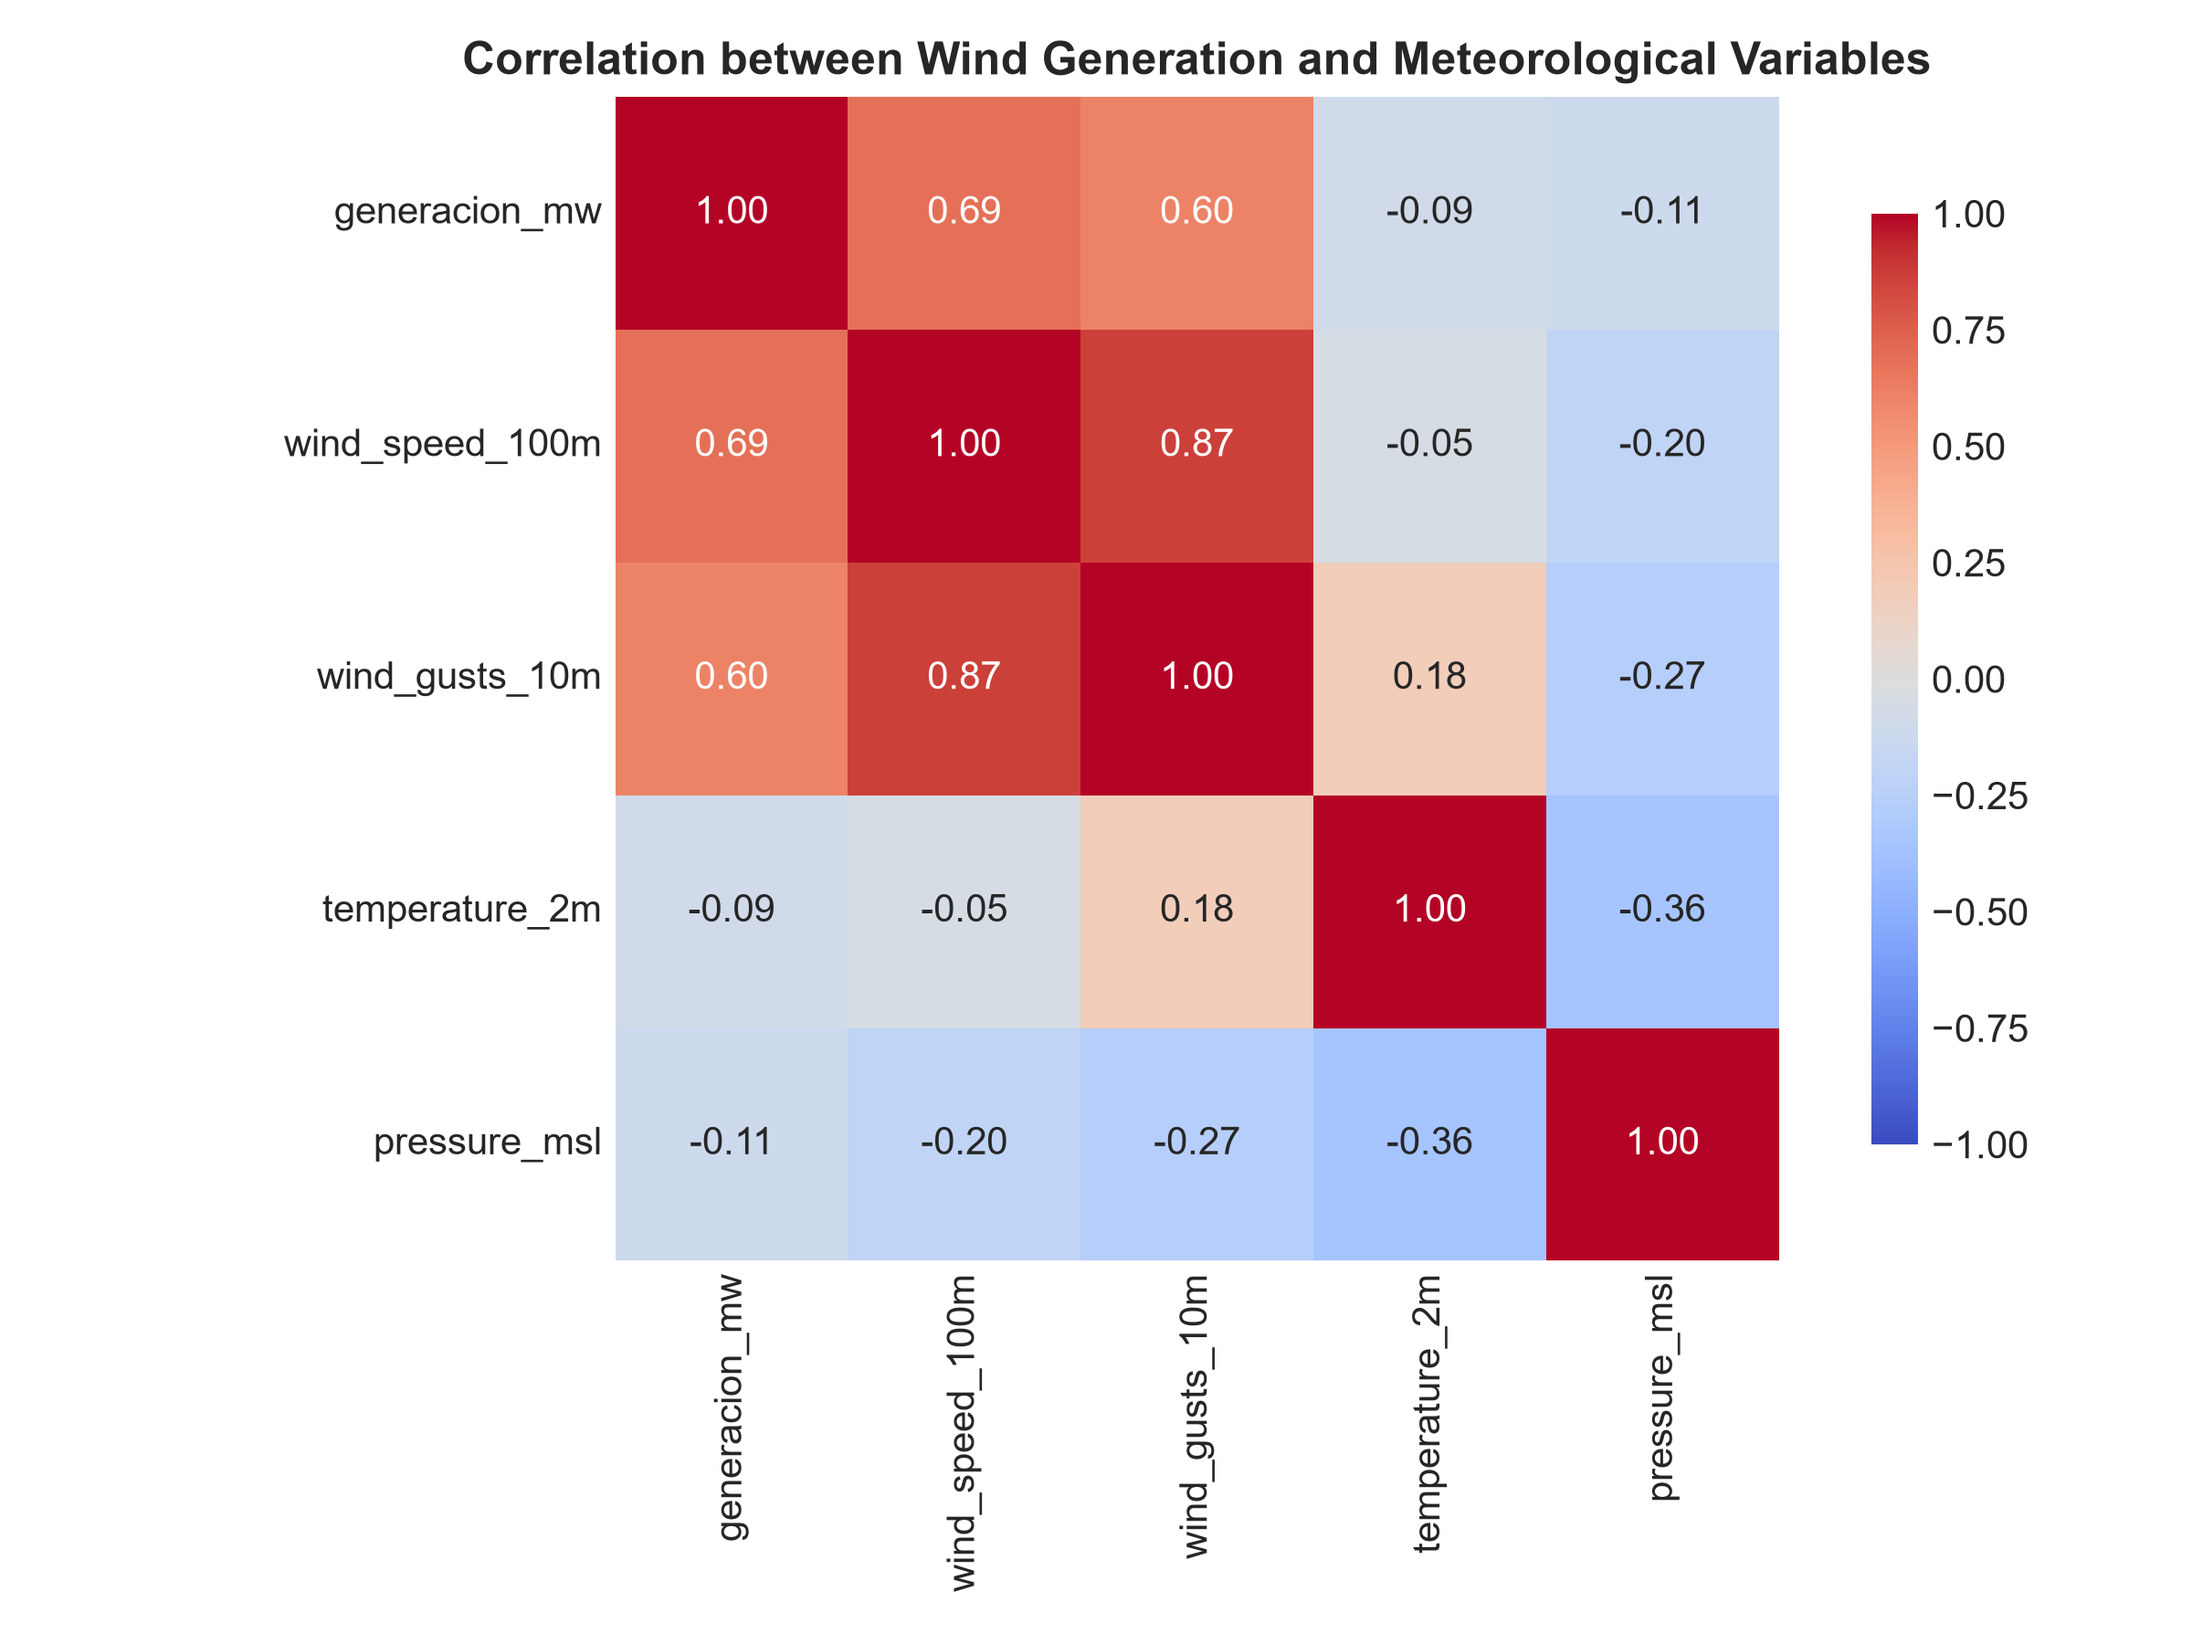
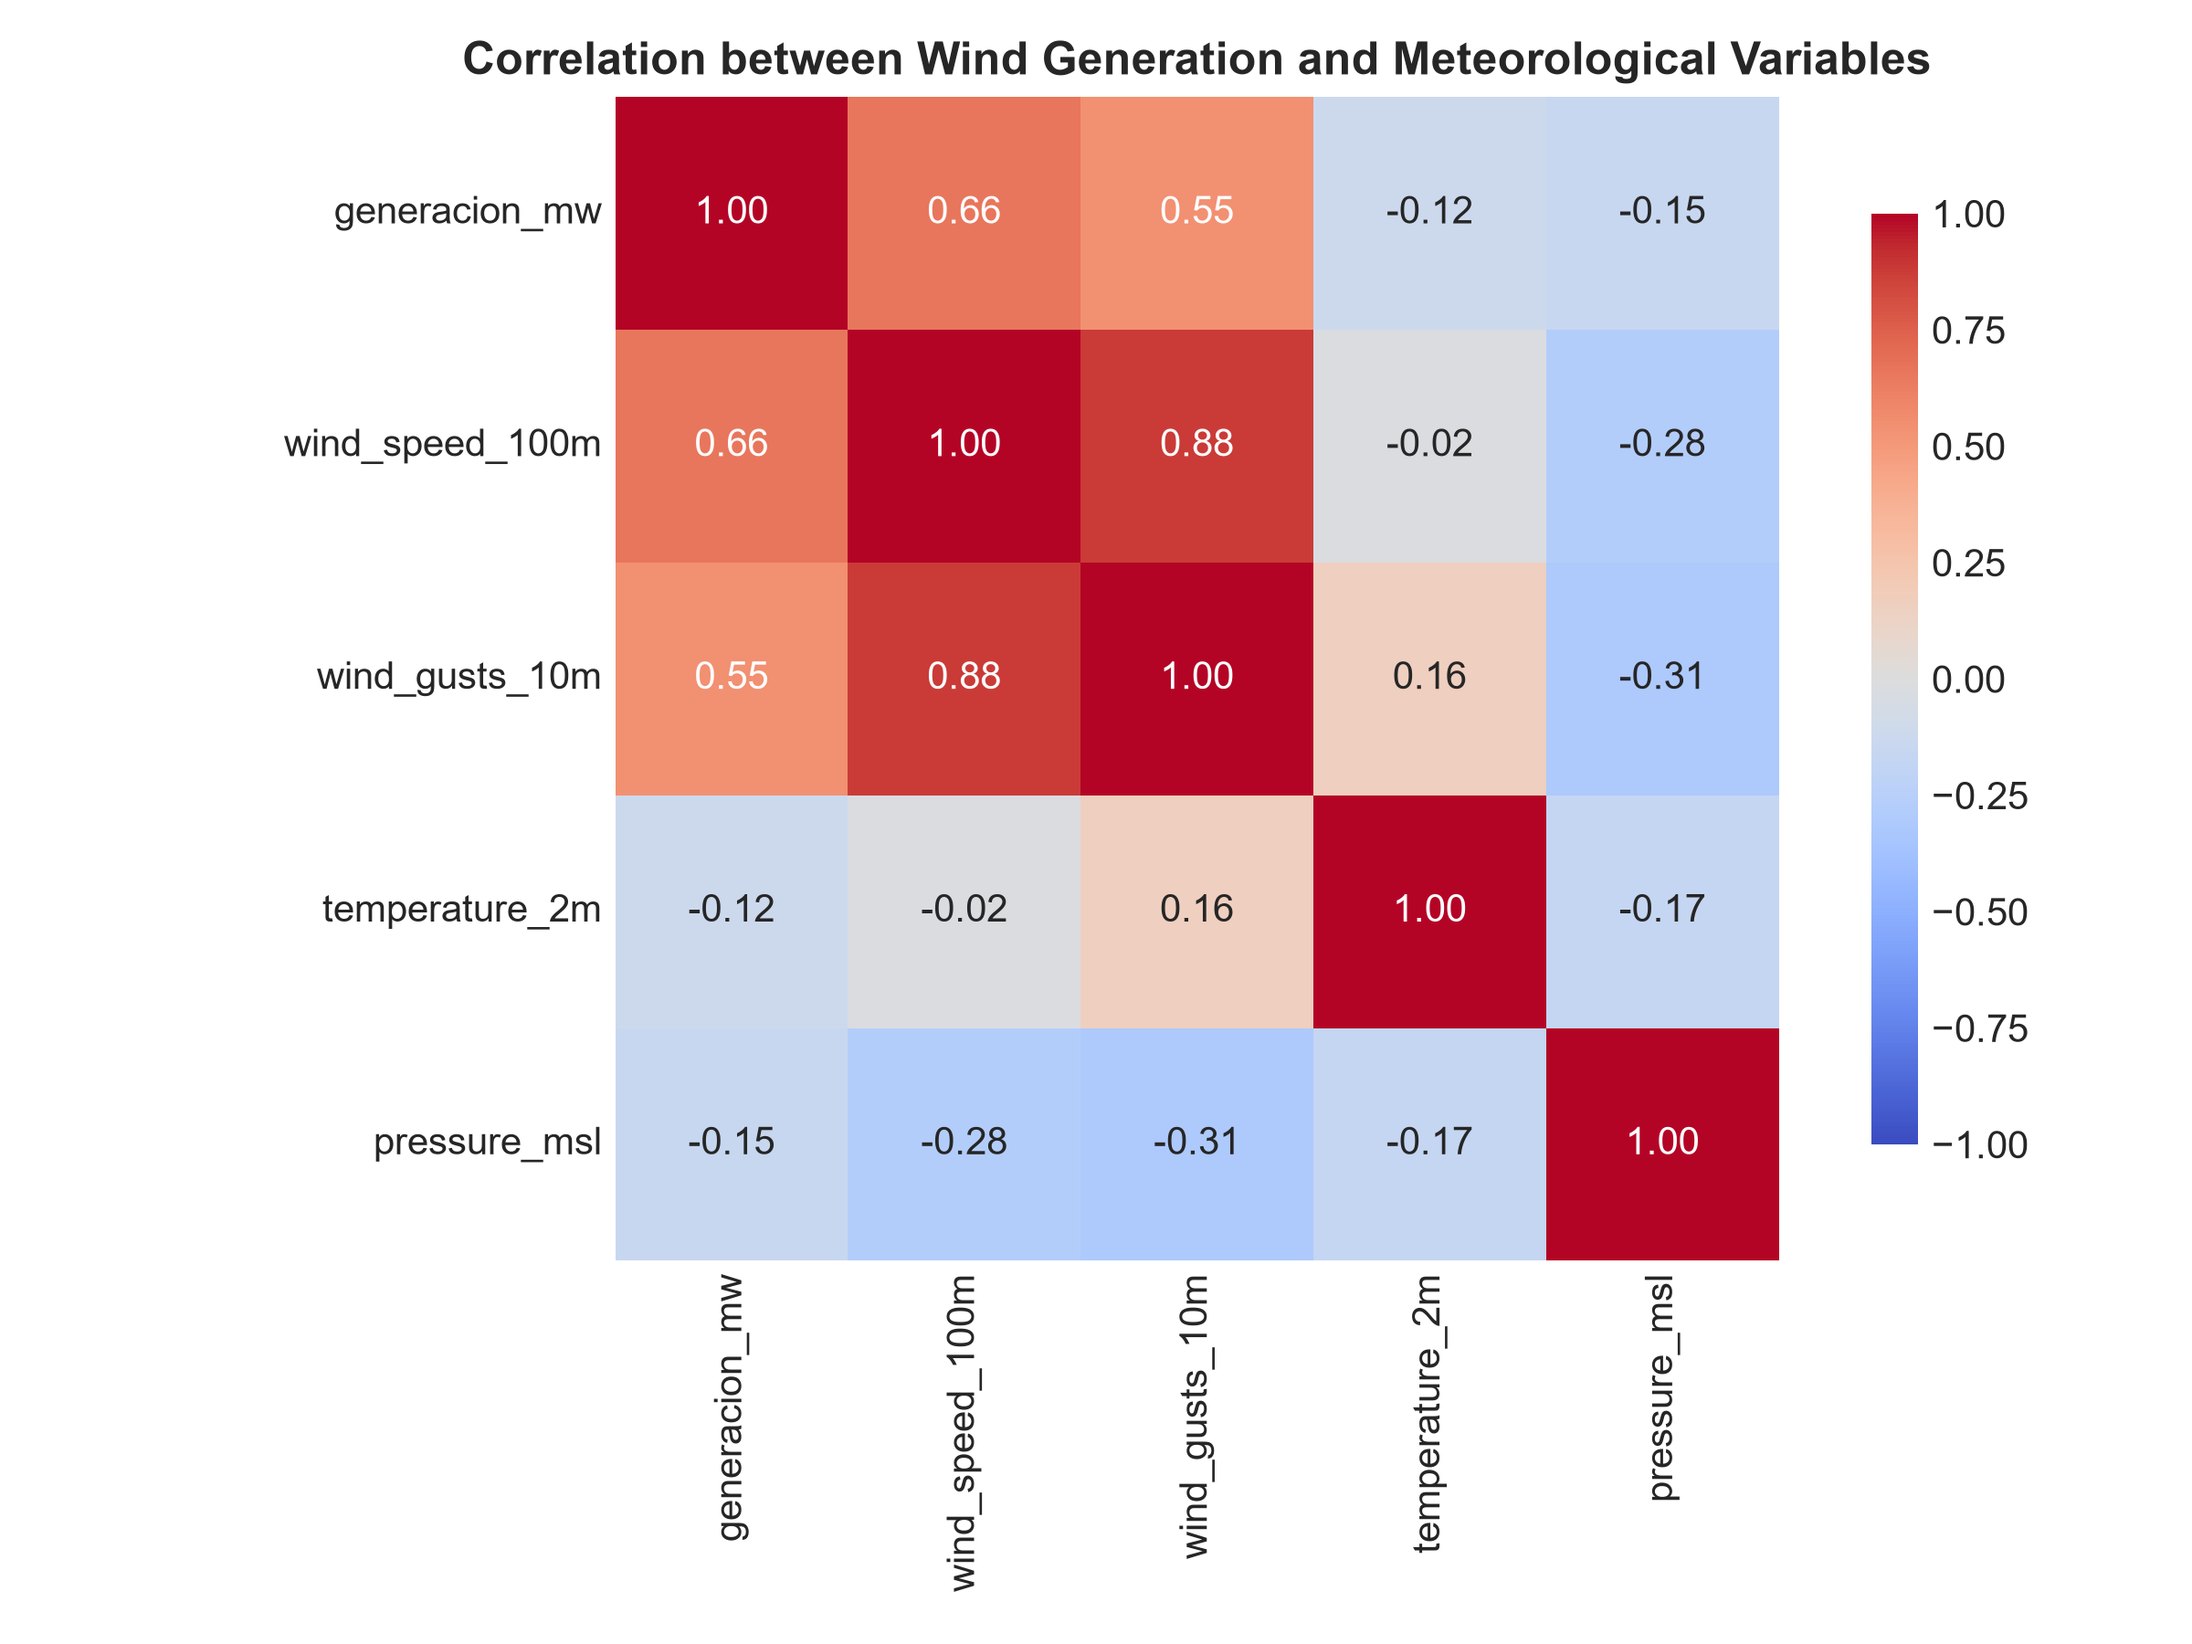
Regenerate EDA figures for the 2024-2026 period
Point eda_esios.py and the EDA notebook at dataset_forecast.csv instead of
the old 2021-2023 dataset.csv, regenerate the 4 EDA figures, and update
CLAUDE.md accordingly.

diff --git a/src/eda/eda_esios.py b/src/eda/eda_esios.py
@@ -7,7 +7,7 @@ import seaborn as sns
 script_dir = os.path.dirname(os.path.abspath(__file__))
 project_root = os.path.abspath(os.path.join(script_dir, "..", ".."))
 
-data_path = os.path.join(project_root, "data", "processed", "dataset.csv")
+data_path = os.path.join(project_root, "data", "processed", "dataset_forecast.csv")
 figures_dir = os.path.join(project_root, "reports", "figures")
 os.makedirs(figures_dir, exist_ok=True)
 

diff --git a/CLAUDE.md b/CLAUDE.md
@@ -85,5 +85,6 @@ Column names, comments and some print output are a mix of Spanish and English. K
 Notebooks in `notebooks/` are meant to import their logic from `src/`. They read data with paths relative to
 `notebooks/`, so run Jupyter from inside that folder or adjust the paths.
 
-`src/eda/eda_esios.py` and the notebooks still read the old `data/processed/dataset.csv`. Point them to
-`dataset_forecast.csv` (or `dataset_reanalysis.csv`) before running them.
+`src/eda/eda_esios.py` and the notebook read `data/processed/dataset_forecast.csv` (full 2024-2026 period).
+`eda_esios.py` writes the 4 English-named EDA figures (`01_wind_power_curve.png` ... `04_temporal_cycles.png`)
+to `reports/figures/`. The Spanish-named PNGs there are from the old 2021-2023 period and no script generates them.
